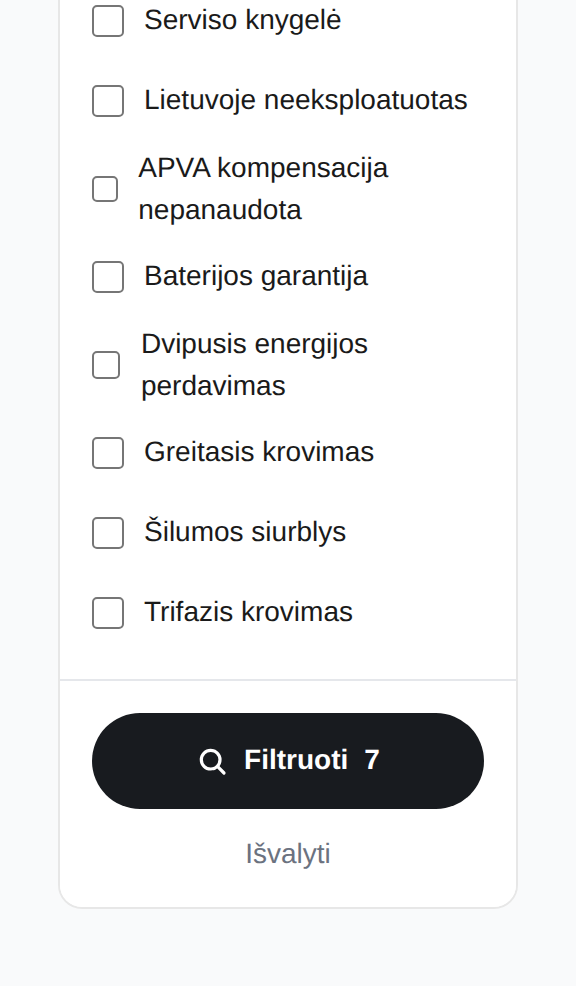
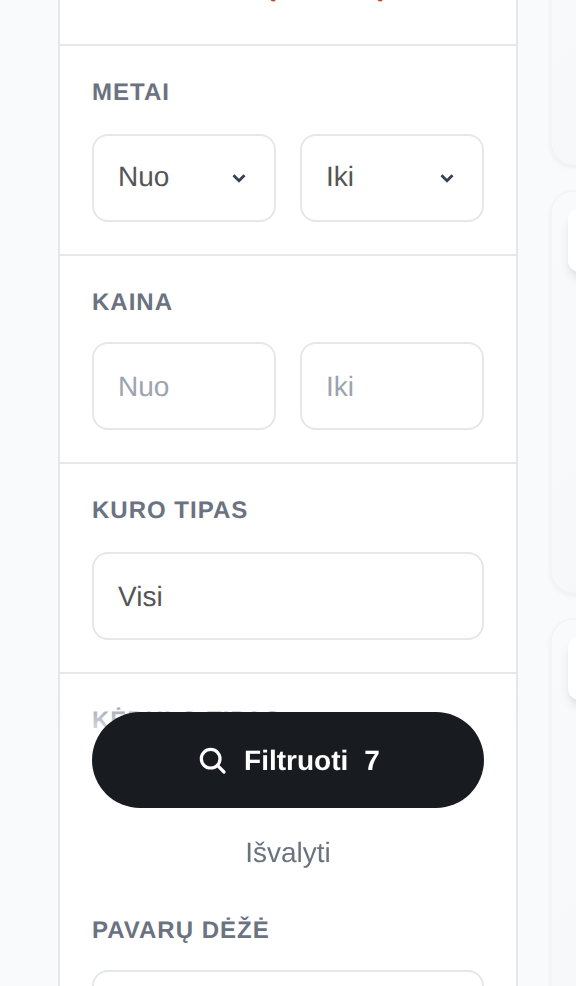
fix(juosta): atidaryti sąrašai nebeišlipa ir nebekerpa teksto
Atsidarę sąrašai išlipdavo už juostos, o reikšmės virsdavo „Lietu…",
„Vokie…". Dvi priežastys, pirmoji — mano pačios įneštа pertvarkant juostą:

* form.sp-side-card turėjo overflow:hidden (dėl 12px kampų) ir apkarpydavo
  .sp-dd ties kortelės kraštu. Pašalinta — blokai be fono, kampų karpyti
  nėra ko
* bendras .sp-dd turi min-width:250px (tinka plačiai panelei), o 230px
  juostoje langas dėl to būdavo platesnis už lauką. Juostoje dabar
  left:0; right:0; width:auto; min-width:0, o sąrašo aukštis — 264px

Patikra su ATIDARYTAIS sąrašais: docs/sonines_sarasu_playwright.js atidaro
kiekvieną ir matuoja lango kraštus prieš lauko kraštus, išlipimą už juostos
ir ar nė vienas tekstas nenukirptas (scrollWidth <= clientWidth). Visi 12
veikiančių sąrašų — ✔ / ✔ / ✔. „Modelis" be pasirinktos markės sąmoningai
neaktyvus, tai pažymima atskirai, o ne skaičiuojama klaida.

Spaudžiama programiškai: tikro paspaudimo neįleidžia lipni antraštė ir jau
atidarytas langas.

Claude-Session: https://claude.ai/code/session_017uGDhWSkh3ZtRXsYeuC8m4

diff --git a/docs/sonines_sarasu_playwright.js b/docs/sonines_sarasu_playwright.js
@@ -1,0 +1,106 @@
+/* ATIDARYTI SĄRAŠAI šoninėje juostoje — ar langas telpa ir nekerpa teksto.
+ *
+ * Iki 2026-09-02 juostos kortelė turėjo overflow:hidden, o .sp-dd —
+ * min-width:250px prie 230px juostos. Sąrašai išlipdavo ir tekstas
+ * virsdavo „Lietu…", „Vokie…".
+ *
+ * Paleidimas:  SP=<scratchpad> node docs/sonines_sarasu_playwright.js
+ */
+const { chromium, paruosti } = require(process.env.SP + '/nuotrauka.js');
+const A = process.env.ADRESAS || 'http://127.0.0.1:8899';
+let blogai = 0;
+
+(async () => {
+  const b = await chromium.launch({
+    executablePath: '/opt/pw-browsers/chromium-1194/chrome-linux/chrome',
+    args: ['--no-sandbox'] });
+  const p = await paruosti(b, 1600, 1100);
+  await p.goto(A + '/?section=cars&sidebar=1', { waitUntil: 'domcontentloaded', timeout: 90000 });
+  await p.waitForTimeout(2500);
+
+  const mygtukai = await p.$$('.sp-side-card .sp-dd-btn');
+  console.log('Sąrašų (mūsų) rasta: ' + mygtukai.length + '\n');
+  console.log('laukas                          | plotis OK | neišlipa | tekstas matomas');
+  console.log('-'.repeat(78));
+
+  for (let i = 0; i < mygtukai.length; i++) {
+    // Antra ir trečia markės/modelio pora paslėptos (x-show="poros > N"),
+    // kol jų nepridedi — tai ne klaida, tad neskaičiuojam.
+    const matomas = await p.evaluate((idx) => {
+      const mg = document.querySelectorAll('.sp-side-card .sp-dd-btn')[idx];
+      return mg.getBoundingClientRect().width > 0;
+    }, i);
+    if (!matomas) continue;
+    // „Modelis" be pasirinktos markės yra sąmoningai neaktyvus
+    // (opacity-60, toggle() neatidaro) — tai ne klaida.
+    const neaktyvus = await p.evaluate((idx) => {
+      const mg = document.querySelectorAll('.sp-side-card .sp-dd-btn')[idx];
+      return mg.className.includes('opacity-60');
+    }, i);
+    if (neaktyvus) {
+      const v = await p.evaluate((idx) => {
+        const mg = document.querySelectorAll('.sp-side-card .sp-dd-btn')[idx];
+        const et = mg.closest('div').querySelector('label');
+        return et ? et.textContent.trim() : '?';
+      }, i);
+      console.log(`${v.slice(0,31).padEnd(31)} | (neaktyvus, kol nepasirinkta markė)`);
+      continue;
+    }
+    // Spaudžiam PROGRAMIŠKAI: tikras paspaudimas nepraeina — lipni
+    // antraštė ir jau atidarytas langas perima pelę. Alpine DOM atnaujina
+    // kitame cikle, tad matuojam ATSKIRAI, po pauzės.
+    await p.evaluate(() => document.body.dispatchEvent(
+      new KeyboardEvent('keydown', { key: 'Escape', bubbles: true })));
+    await p.evaluate((idx) => {
+      for (const d of document.querySelectorAll('.sp-side-card [data-ms]')) {
+        if (d.__x && d.__x.$data) d.__x.$data.open = false;
+      }
+      document.querySelectorAll('.sp-side-card .sp-dd-btn')[idx].click();
+    }, i);
+    await p.waitForTimeout(300);
+
+    const r = await p.evaluate((idx) => {
+      const s = document.querySelector('.sp-side-card');
+      const mg = s.querySelectorAll('.sp-dd-btn')[idx];
+      const blk = mg.closest('div');
+      const et = blk.querySelector('label');
+      const pan = blk.querySelector('.sp-dd');
+      if (!pan || pan.getBoundingClientRect().width === 0)
+        return { vardas: et ? et.textContent.trim() : '?', nera: true };
+      const f = mg.getBoundingClientRect();
+      const d = pan.getBoundingClientRect();
+      const j = s.getBoundingClientRect();
+      let kirpta = [];
+      for (const e of pan.querySelectorAll('.sp-dd-item, .sp-dd-item span, .sp-dd-group')) {
+        if (e.scrollWidth > e.clientWidth + 1)
+          kirpta.push((e.textContent || '').trim().slice(0, 24));
+      }
+      return {
+        vardas: et ? et.textContent.trim() : '?',
+        dKaire: Math.abs(d.left - f.left), dDesine: Math.abs(d.right - f.right),
+        islipa: Math.max(0, Math.round(j.left - d.left)) + Math.max(0, Math.round(d.right - j.right)),
+        z: getComputedStyle(pan).zIndex,
+        aukstis: Math.round(d.height),
+        kirpta,
+      };
+    }, i);
+    if (r.nera) { console.log(`${r.vardas.padEnd(31)} | (neatsidarė)`); blogai++; continue; }
+    const pl = r.dKaire <= 1 && r.dDesine <= 1;
+    const ne = r.islipa === 0;
+    const tk = r.kirpta.length === 0;
+    if (!pl || !ne || !tk) blogai++;
+    console.log(
+      `${r.vardas.slice(0,31).padEnd(31)} | ${(pl?'✔':'✘ '+Math.round(r.dKaire)+'/'+Math.round(r.dDesine)+'px').padEnd(9)} | ` +
+      `${(ne?'✔':'✘ '+r.islipa+'px').padEnd(8)} | ${tk?'✔':'✘ '+r.kirpta.join(', ')}`);
+  }
+
+  // Native <select> — jų turi nebūti visai
+  const native = await p.$$eval('.sp-side-card [data-laukai] select',
+    e => e.map(x => x.name));
+  console.log('\nNative <select> juostoje: ' + (native.length ? native.join(', ') : 'nėra'));
+
+  await b.close();
+  console.log('\n' + '═'.repeat(60));
+  console.log(blogai ? 'NEATITIKIMŲ: ' + blogai : 'VISI SĄRAŠAI TVARKOJE');
+  process.exit(blogai ? 1 : 0);
+})();

diff --git a/static/css/sonine_juosta.css b/static/css/sonine_juosta.css
@@ -31,8 +31,22 @@
   form.sp-side-card {
     padding: 0;                     /* vidų dabar duoda patys blokai */
     border-radius: 12px;
-    overflow: hidden;
+    /* JOKIO overflow: hidden. Jis apkarpydavo atsidariusius sąrašus
+       (.sp-dd) ties kortelės kraštu, ir reikšmės virsdavo „Lietu…",
+       „Vokie…". Kampus ir taip nėra ko karpyti — blokai be fono. */
   }
+
+  /* Sąrašo langas — TIKSLIAI po lauku, per visą lauko plotį.
+     Bendras .sp-dd turi min-width: 250px (tinka plačiai panelei), o
+     230 px juostoje dėl jo langas išlipdavo į dešinę. */
+  .sp-side-card .sp-dd {
+    left: 0;
+    right: 0;
+    width: auto;
+    min-width: 0;
+    z-index: 40;
+  }
+  .sp-side-card .sp-dd-scroll { max-height: 264px; }
 
   /* Vienas bloko šablonas: „Daugiau filtrų", šalis, kiekvienas laukas,
      ypatumai. `.sb-apply` — ne blokas, o veiksmų juosta apačioje. */
